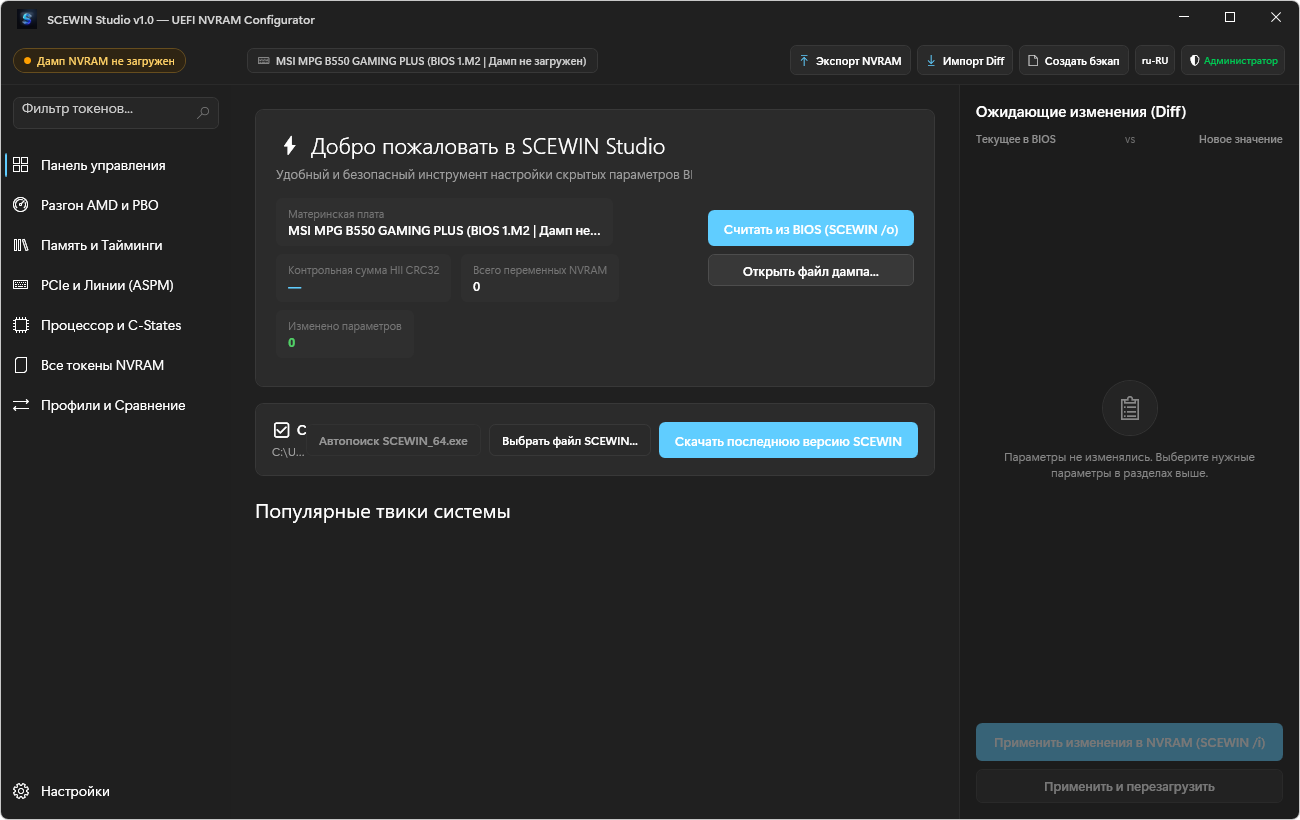
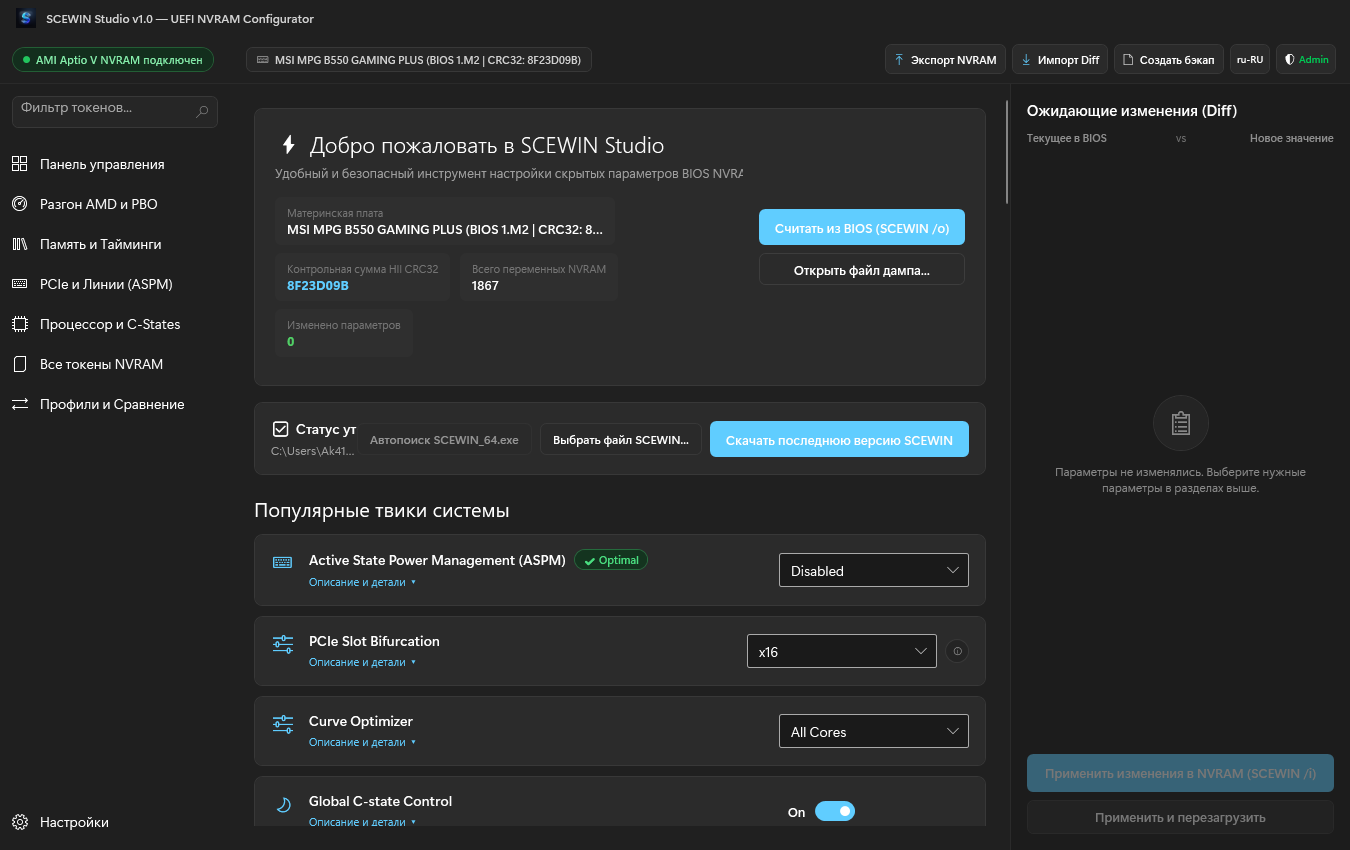
docs: replace screenshots with authentic rendered UI pages for all tabs

diff --git a/src/SCEWIN_Studio/MainWindow.xaml b/src/SCEWIN_Studio/MainWindow.xaml
@@ -256,37 +256,37 @@
                 </ui:NavigationView.PaneHeader>
 
                 <ui:NavigationView.MenuItems>
-                    <ui:NavigationViewItem Content="{Binding L10n[Nav_Dashboard]}" Tag="Dashboard">
+                    <ui:NavigationViewItem AutomationProperties.AutomationId="Nav_Dashboard" Content="{Binding L10n[Nav_Dashboard]}" Tag="Dashboard">
                         <ui:NavigationViewItem.Icon>
                             <ui:FontIcon Glyph="&#xF0E2;" />
                         </ui:NavigationViewItem.Icon>
                     </ui:NavigationViewItem>
-                    <ui:NavigationViewItem Content="{Binding L10n[Nav_Overclocking]}" Tag="Overclocking">
+                    <ui:NavigationViewItem AutomationProperties.AutomationId="Nav_Overclocking" Content="{Binding L10n[Nav_Overclocking]}" Tag="Overclocking">
                         <ui:NavigationViewItem.Icon>
                             <ui:FontIcon Glyph="&#xEC4A;" />
                         </ui:NavigationViewItem.Icon>
                     </ui:NavigationViewItem>
-                    <ui:NavigationViewItem Content="{Binding L10n[Nav_Memory]}" Tag="Memory">
+                    <ui:NavigationViewItem AutomationProperties.AutomationId="Nav_Memory" Content="{Binding L10n[Nav_Memory]}" Tag="Memory">
                         <ui:NavigationViewItem.Icon>
                             <ui:FontIcon Glyph="&#xE8F1;" />
                         </ui:NavigationViewItem.Icon>
                     </ui:NavigationViewItem>
-                    <ui:NavigationViewItem Content="{Binding L10n[Nav_PciePower]}" Tag="PciePower" IsSelected="True">
+                    <ui:NavigationViewItem AutomationProperties.AutomationId="Nav_PciePower" Content="{Binding L10n[Nav_PciePower]}" Tag="PciePower">
                         <ui:NavigationViewItem.Icon>
                             <ui:FontIcon Glyph="&#xE765;" />
                         </ui:NavigationViewItem.Icon>
                     </ui:NavigationViewItem>
-                    <ui:NavigationViewItem Content="{Binding L10n[Nav_CpuPower]}" Tag="CpuPower">
+                    <ui:NavigationViewItem AutomationProperties.AutomationId="Nav_CpuPower" Content="{Binding L10n[Nav_CpuPower]}" Tag="CpuPower">
                         <ui:NavigationViewItem.Icon>
                             <ui:FontIcon Glyph="&#xE950;" />
                         </ui:NavigationViewItem.Icon>
                     </ui:NavigationViewItem>
-                    <ui:NavigationViewItem Content="{Binding L10n[Nav_RawTokens]}" Tag="RawTokens">
+                    <ui:NavigationViewItem AutomationProperties.AutomationId="Nav_RawTokens" Content="{Binding L10n[Nav_RawTokens]}" Tag="RawTokens">
                         <ui:NavigationViewItem.Icon>
                             <ui:FontIcon Glyph="&#xE8A5;" />
                         </ui:NavigationViewItem.Icon>
                     </ui:NavigationViewItem>
-                    <ui:NavigationViewItem Content="{Binding L10n[Nav_ProfilesDiff]}" Tag="ProfilesDiff">
+                    <ui:NavigationViewItem AutomationProperties.AutomationId="Nav_ProfilesDiff" Content="{Binding L10n[Nav_ProfilesDiff]}" Tag="ProfilesDiff">
                         <ui:NavigationViewItem.Icon>
                             <ui:FontIcon Glyph="&#xE8AB;" />
                         </ui:NavigationViewItem.Icon>
@@ -294,7 +294,7 @@
                 </ui:NavigationView.MenuItems>
 
                 <ui:NavigationView.FooterMenuItems>
-                    <ui:NavigationViewItem Content="{Binding L10n[Nav_Settings]}" Tag="Settings">
+                    <ui:NavigationViewItem AutomationProperties.AutomationId="Nav_Settings" Content="{Binding L10n[Nav_Settings]}" Tag="Settings">
                         <ui:NavigationViewItem.Icon>
                             <ui:FontIcon Glyph="&#xE713;" />
                         </ui:NavigationViewItem.Icon>

diff --git a/README.md b/README.md
@@ -21,7 +21,7 @@
 ## 📸 Скриншоты интерфейса / UI Showcase
 
 ### 1. 🖥 Панель управления (Dashboard)
-Статус подключения к AMI Aptio V, определение материнской платы, версия BIOS, контрольная сумма HII CRC32 и быстрые карточки рекомендаций.
+Статус подключения к AMI Aptio V, определение материнской платы, версия BIOS, контрольная сумма HII CRC32, быстрые карточки рекомендаций и боковая панель ожидающих изменений (Diff).
 <p align="center">
   <img src="docs/screenshots/01_dashboard.png" alt="Dashboard" width="850" />
 </p>
@@ -32,31 +32,37 @@
   <img src="docs/screenshots/02_memory_tuning.png" alt="Memory & Timings" width="850" />
 </p>
 
-### 3. 🔌 PCIe, ASPM и Бифуркация линий
-Управление состояниями энергосбережения шины PCI Express (L0s, L1, L1 Substates), ReBAR (Resizable BAR) и конфигурацией разделения слотов PCIe.
+### 3. 🚀 Разгон и Precision Boost Overdrive (PBO)
+Тонкая настройка PBO, Curve Optimizer для каждого ядра с переключателями Positive/Negative и шагами Magnitude, скаляр PBO и лимиты мощности.
+<p align="center">
+  <img src="docs/screenshots/08_overclocking.png" alt="Overclocking & PBO" width="850" />
+</p>
+
+### 4. 🔌 PCIe, ASPM и Бифуркация линий
+Управление состояниями энергосбережения шины PCI Express (L0s, L1, L1 Substates), ReBAR (Resizable BAR), NVMe RAID и конфигурацией разделения слотов PCIe.
 <p align="center">
   <img src="docs/screenshots/03_pcie_power.png" alt="PCIe Power & ASPM" width="850" />
 </p>
 
-### 4. 🚀 Процессор, PBO и C-States
-Тонкая настройка Precision Boost Overdrive (PBO), Curve Optimizer для каждого ядра, лимитов по току и мощности (PPT, TDC, EDC), состояний энергосбережения (Global C-States, DF C-States, CPPC).
+### 5. ⚡ Процессор и C-States
+Управление глобальными состояниями сна ядер (Global C-state Control, DF C-States, CPPC, CPPC Preferred Cores, Core Performance Boost).
 <p align="center">
-  <img src="docs/screenshots/04_cpu_power.png" alt="CPU Power & PBO" width="850" />
+  <img src="docs/screenshots/04_cpu_power.png" alt="CPU Power & C-States" width="850" />
 </p>
 
-### 5. 📋 Каталог всех токенов (Raw Tokens)
+### 6. 📋 Каталог всех токенов (Raw Tokens)
 Виртуализированный каталог на 4,000+ параметров NVRAM с мгновенным debounced-поиском, фильтрацией по категориям и чип-фильтрами.
 <p align="center">
   <img src="docs/screenshots/05_raw_tokens.png" alt="Raw Tokens Catalog" width="850" />
 </p>
 
-### 6. 🔍 Двустороннее сравнение дампов BIOS (Dual-Dump Compare)
+### 7. 🔍 Двустороннее сравнение дампов BIOS (Dual-Dump Compare)
 Сопоставление двух независимых дампов (например, вашего профиля и профиля друга) с автоматическим обнаружением различий, фильтрацией по категориям и экспортом отчётов.
 <p align="center">
   <img src="docs/screenshots/06_dual_dump_comparison.png" alt="Dual Dump Comparison" width="850" />
 </p>
 
-### 7. ⚙ Настройки и автоматический загрузчик SCEWIN
+### 8. ⚙ Настройки и автоматический загрузчик SCEWIN
 Встроенный поиск локальных утилит SCEWIN, проверка драйверов ядра AMI (`amifldrv64.sys`) и загрузчик последней протестированной версии утилиты в один клик.
 <p align="center">
   <img src="docs/screenshots/07_settings.png" alt="Settings & Tools" width="850" />
